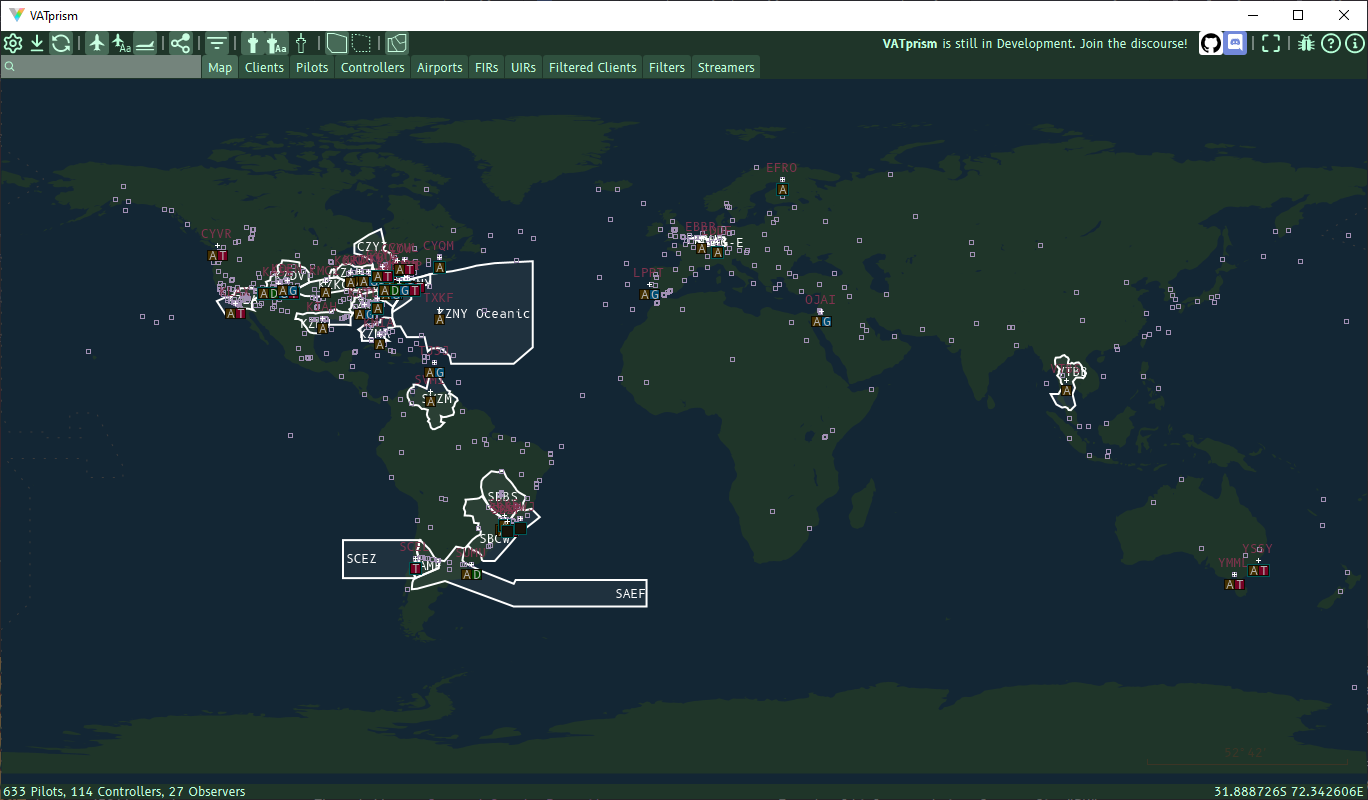
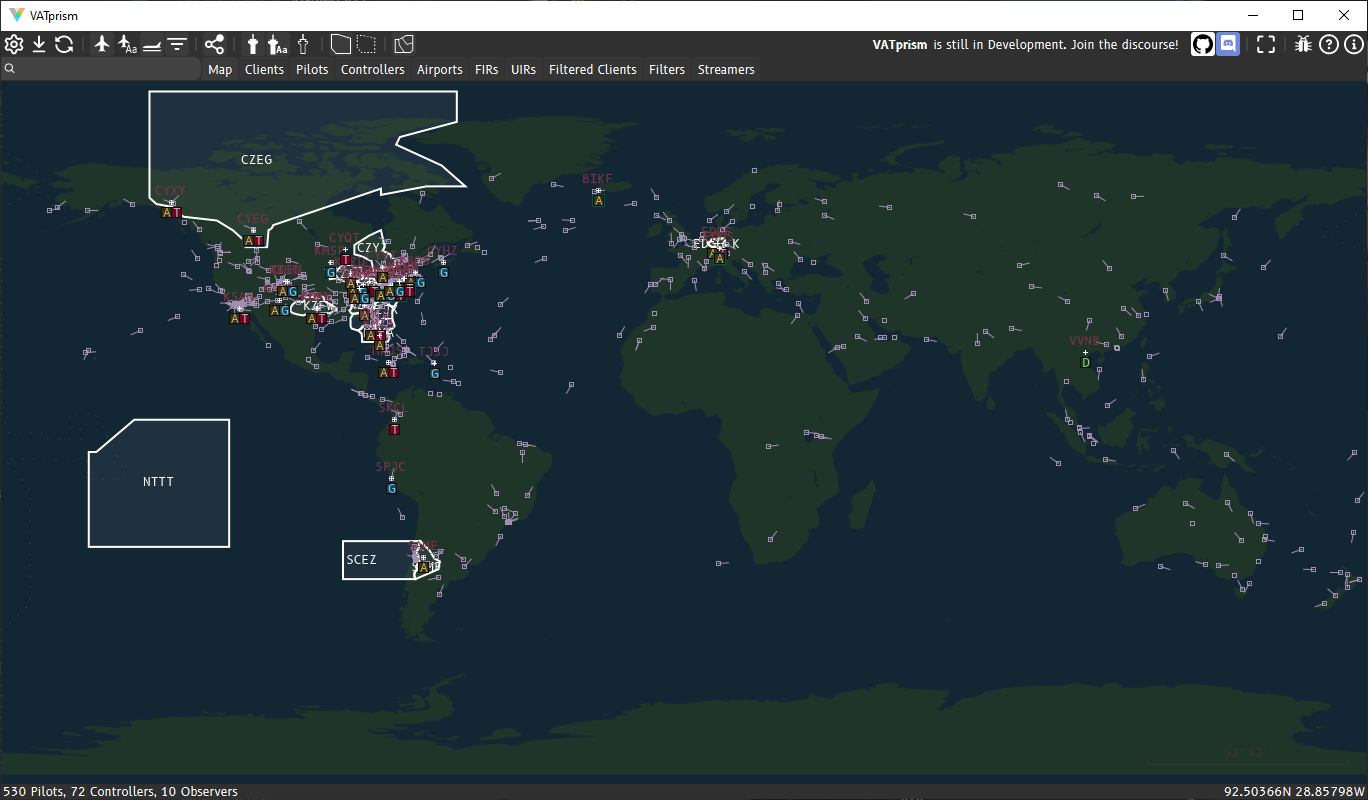
Updated screenshots in readme and docs, added VAT-Spy classic color scheme

diff --git a/src/main/java/net/marvk/fs/vatsim/map/view/preferences/ColorSchemeViewModel.java b/src/main/java/net/marvk/fs/vatsim/map/view/preferences/ColorSchemeViewModel.java
@@ -21,6 +21,8 @@ public class ColorSchemeViewModel implements ViewModel {
     private final CustomColorSchemeRepository customColorSchemeRepository;
     private final Preferences preferences;
     private final ObservableList<ColorScheme> colorSchemes;
+    private final SortedList<ColorScheme> packagedColorSchemes;
+    private final SortedList<ColorScheme> sortedColorSchemes;
 
     @Inject
     public ColorSchemeViewModel(
@@ -47,17 +49,24 @@ public class ColorSchemeViewModel implements ViewModel {
         Notifications.SET_THEME.subscribe(s ->
                 packagedColorSchemeRepository.findByName(s).ifPresent(ColorSchemeViewModel.this::set)
         );
+
+        this.packagedColorSchemes = new SortedList<>(packagedColorSchemeRepository.list(),
+                Comparator
+                        .comparing(ColorScheme::getName, (o1, o2) -> Boolean.compare(o1.startsWith("VATprism"), o2.startsWith("VATprism")))
+                        .reversed()
+                        .thenComparing(ColorScheme::getName, String::compareTo)
+        );
+        this.sortedColorSchemes = new SortedList<>(this.colorSchemes,
+                Comparator.comparing(ColorScheme::getName)
+        );
     }
 
     public ObservableList<ColorScheme> packagedColorSchemes() {
-        return packagedColorSchemeRepository.list();
+        return FXCollections.unmodifiableObservableList(packagedColorSchemes);
     }
 
     public ObservableList<ColorScheme> customColorSchemes() {
-        final SortedList<ColorScheme> sortedSchemes = new SortedList<>(this.colorSchemes);
-        sortedSchemes.setComparator(Comparator.comparing(ColorScheme::getName));
-
-        return FXCollections.unmodifiableObservableList(sortedSchemes);
+        return FXCollections.unmodifiableObservableList(sortedColorSchemes);
     }
 
     public void set(final ColorScheme colorScheme) {

diff --git a/docs/index.md b/docs/index.md
@@ -102,6 +102,12 @@ adjustable ground speed.
 Create an infinite amount of filters, filtering callsigns, CIDs, departure and arrival airports and much more, including
 custom map colors. Filters are also disableable, and may be shared as a .json file.
 
+### Full Text Search
+
+[![](assets/images/showcase/search.png)](assets/images/showcase/search.png)
+
+VATprism supports full text search, making it easy to search for airport names, ICAO codes, client names and more.
+
 ### Color Schemes
 
 VATprism allows you to customize every color drawn on the map individually. This gives you all the control you need to
@@ -111,10 +117,14 @@ customize the look of your VATprism map. Dark, light, colorful or muted, or anyt
 
 [![](assets/images/showcase/color_scheme_vatspy.png)](assets/images/showcase/color_scheme_vatspy.png)
 
-#### Can I HazControl?
+#### Dark
 
-[![](assets/images/showcase/color_scheme_haz.png)](assets/images/showcase/color_scheme_haz.png)
+[![](assets/images/showcase/color_scheme_dark.png)](assets/images/showcase/color_scheme_dark.png)
 
-#### Basically Google Maps.
+#### or light?
+
+[![](assets/images/showcase/color_scheme_light.png)](assets/images/showcase/color_scheme_light.png)
+
+#### Basically Google Maps
 
 [![](assets/images/showcase/color_scheme_real.png)](assets/images/showcase/color_scheme_real.png)

diff --git a/README.md b/README.md
@@ -19,23 +19,25 @@ For instructions on how to download VATprism, see the [Installation](#installati
 
 #### Airport Detail
 
-![Screenshot1](https://i.imgur.com/oSE1y7s.png)
+![Screenshot1](docs/assets/images/showcase/detail_airport.png)
 
 #### Airport Table
 
-![Screenshot2](https://i.imgur.com/Py7kWgq.png)
+![Screenshot2](docs/assets/images/showcase/table_airports.png)
 
 #### Pilot Detail
 
-![Screenshot3](https://i.imgur.com/4GYHvDe.png)
+![Screenshot3](docs/assets/images/showcase/detail_pilot.png)
 
 #### Full text search!
 
-![Screenshot4](https://i.imgur.com/RKEhpk4.png)
+![Screenshot4](docs/assets/images/showcase/search.png)
 
 #### Fully customizable!
 
-![Screenshot5](https://i.imgur.com/GkxMnGy.png)
+![Screenshot5](docs/assets/images/showcase/color_scheme_light.png)
+
+More information can be found on [vatprism.org](https://vatprism.org/)
 
 ## Issues
 
